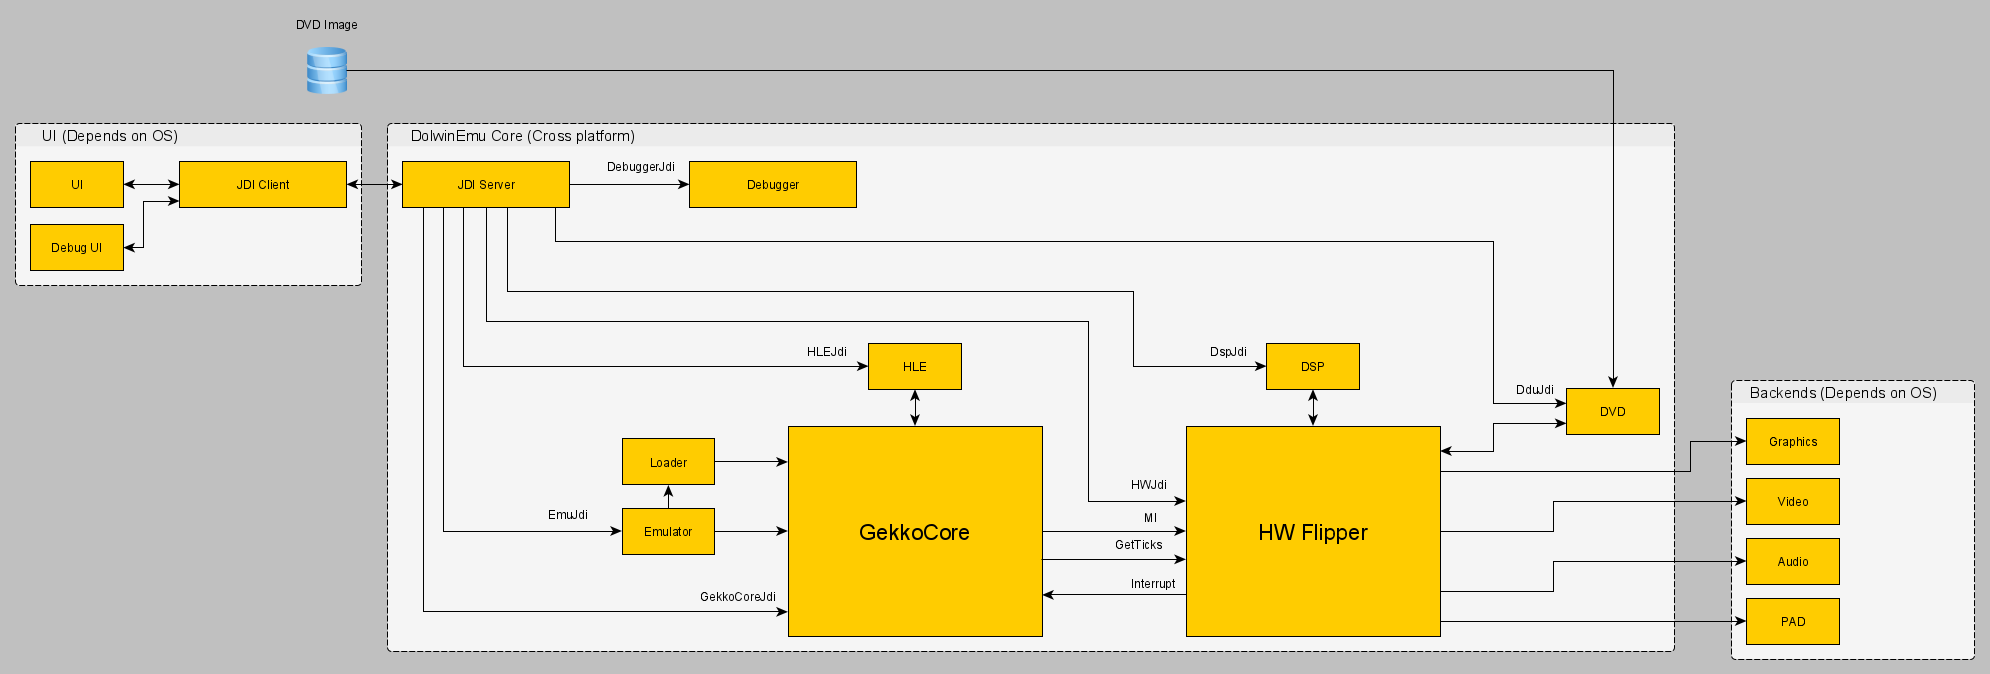
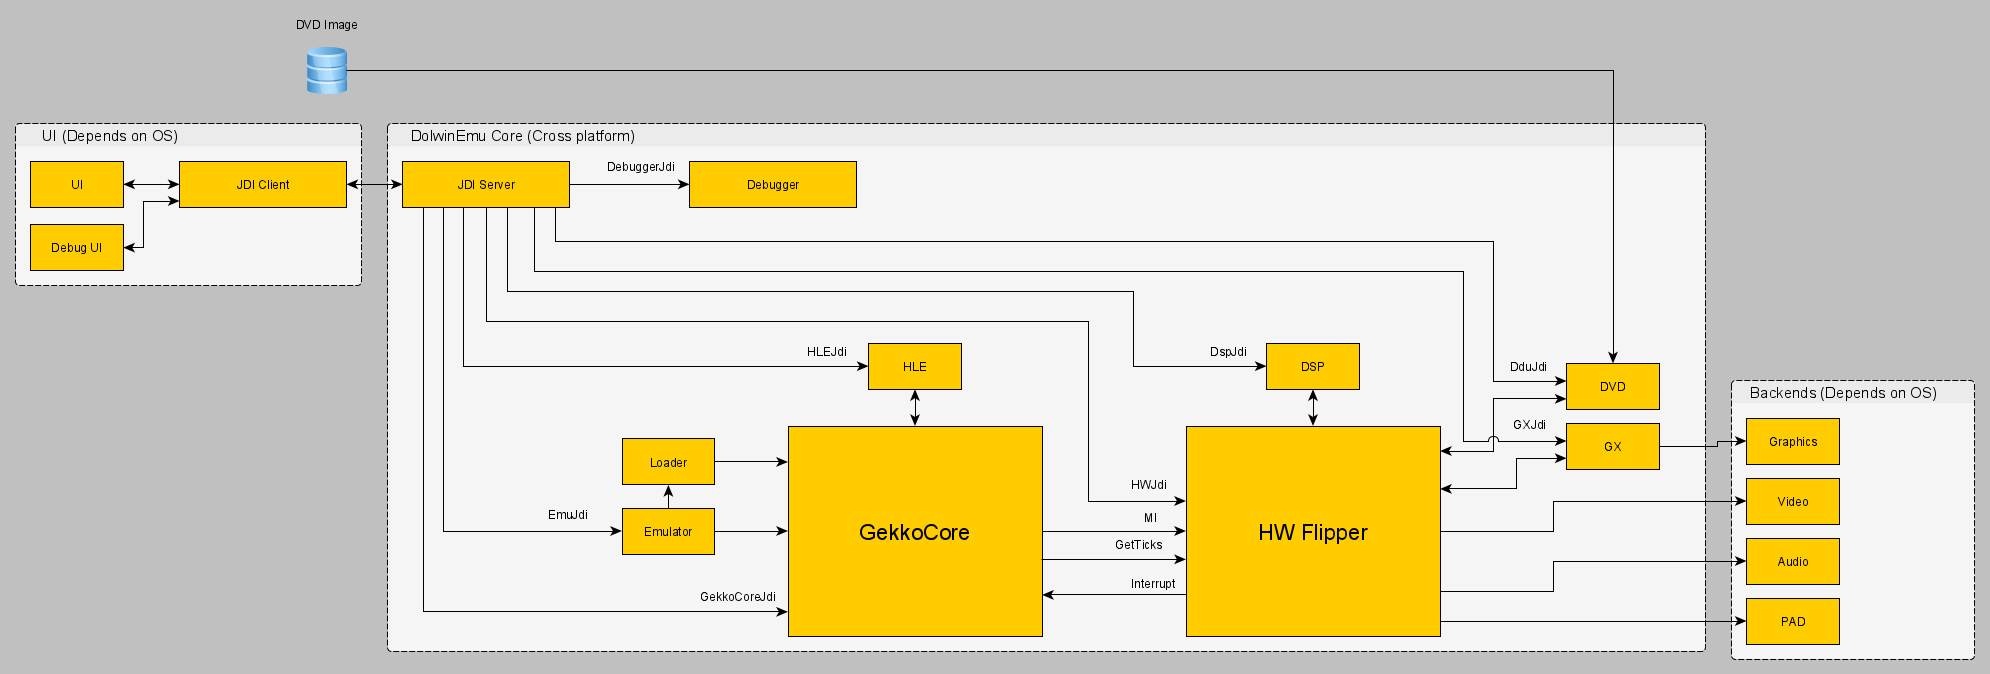
Release Notes 0.14

Changed region(s): [[0.7477, 0.1869, 0.8724, 0.9659]]

diff --git a/EMU/ReleaseNotes/ReleaseNotes0140.md b/EMU/ReleaseNotes/ReleaseNotes0140.md
@@ -1,0 +1,10 @@
+# Dolwin 0.14 Release Notes
+
+This release is the beginning of work on improving the graphics system.
+
+- A new component has been added to the emulator - GX, which contains the general code for emulating the command processor (CP)
+- Old DolwinVideo code has been cleaned up from old stuff. It is still used as a reserve parachute until a more advanced backend appears.
+- In parallel, improvements have been made in DSP emulation, but there is still a lot of work to be done in this area
+- Fixed minor bugs that got out after splitting the emulator core and user interface.
+
+Some games show slight progress: Luigi's Mansion now shows 1 screen further from the main menu, and Wario Ware even reaches the game, but with big slowdowns and graphical bugs. You can even hear how Wario is unhappy with this circumstance (there is sound in the game).
